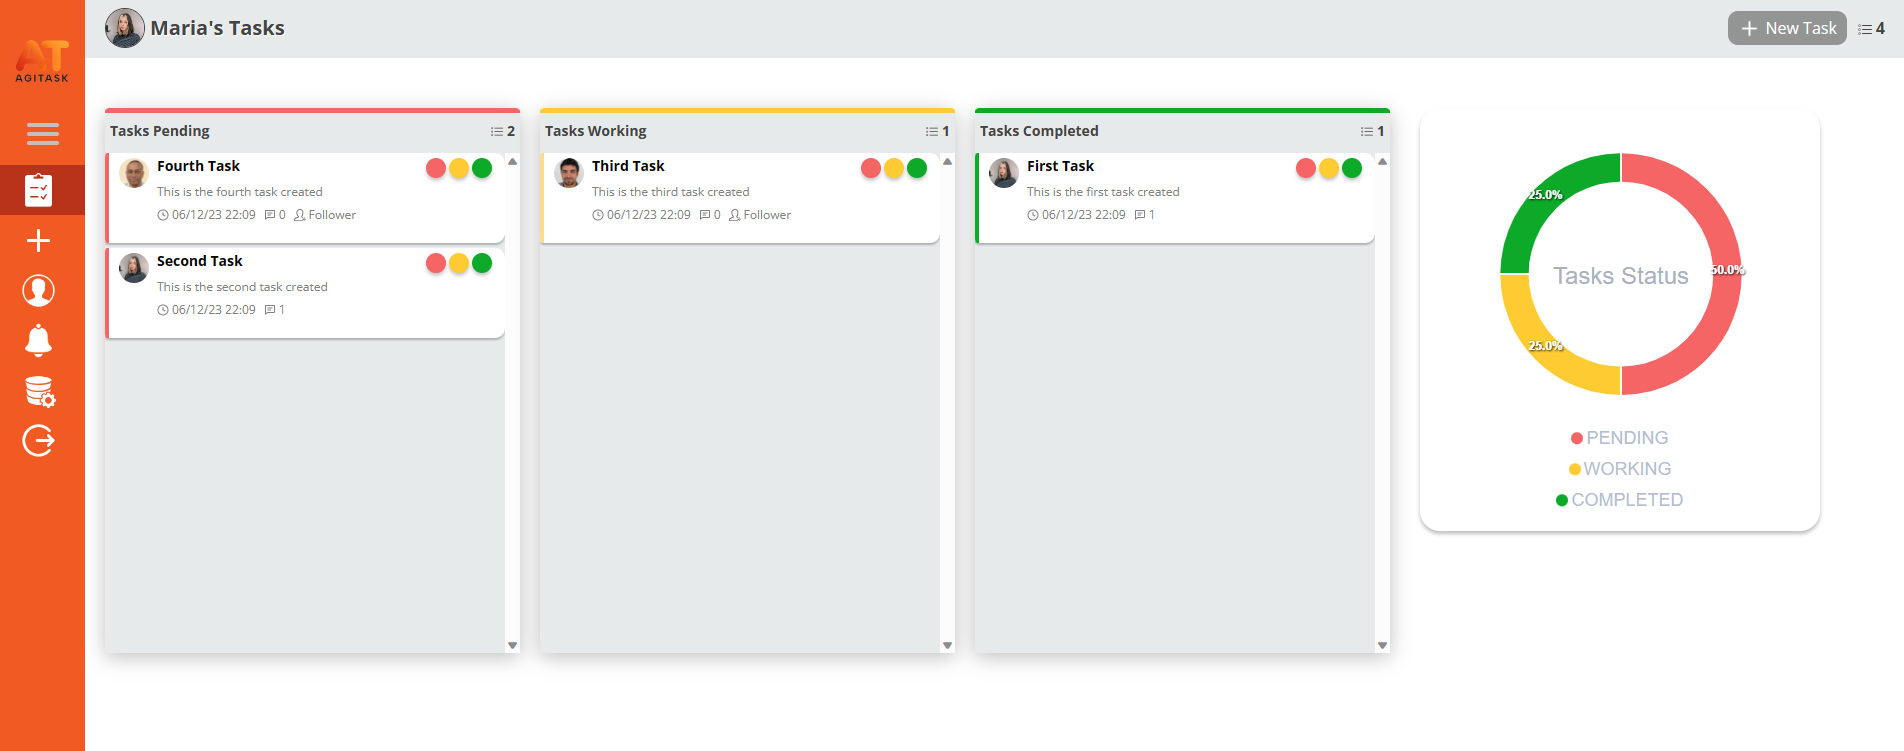
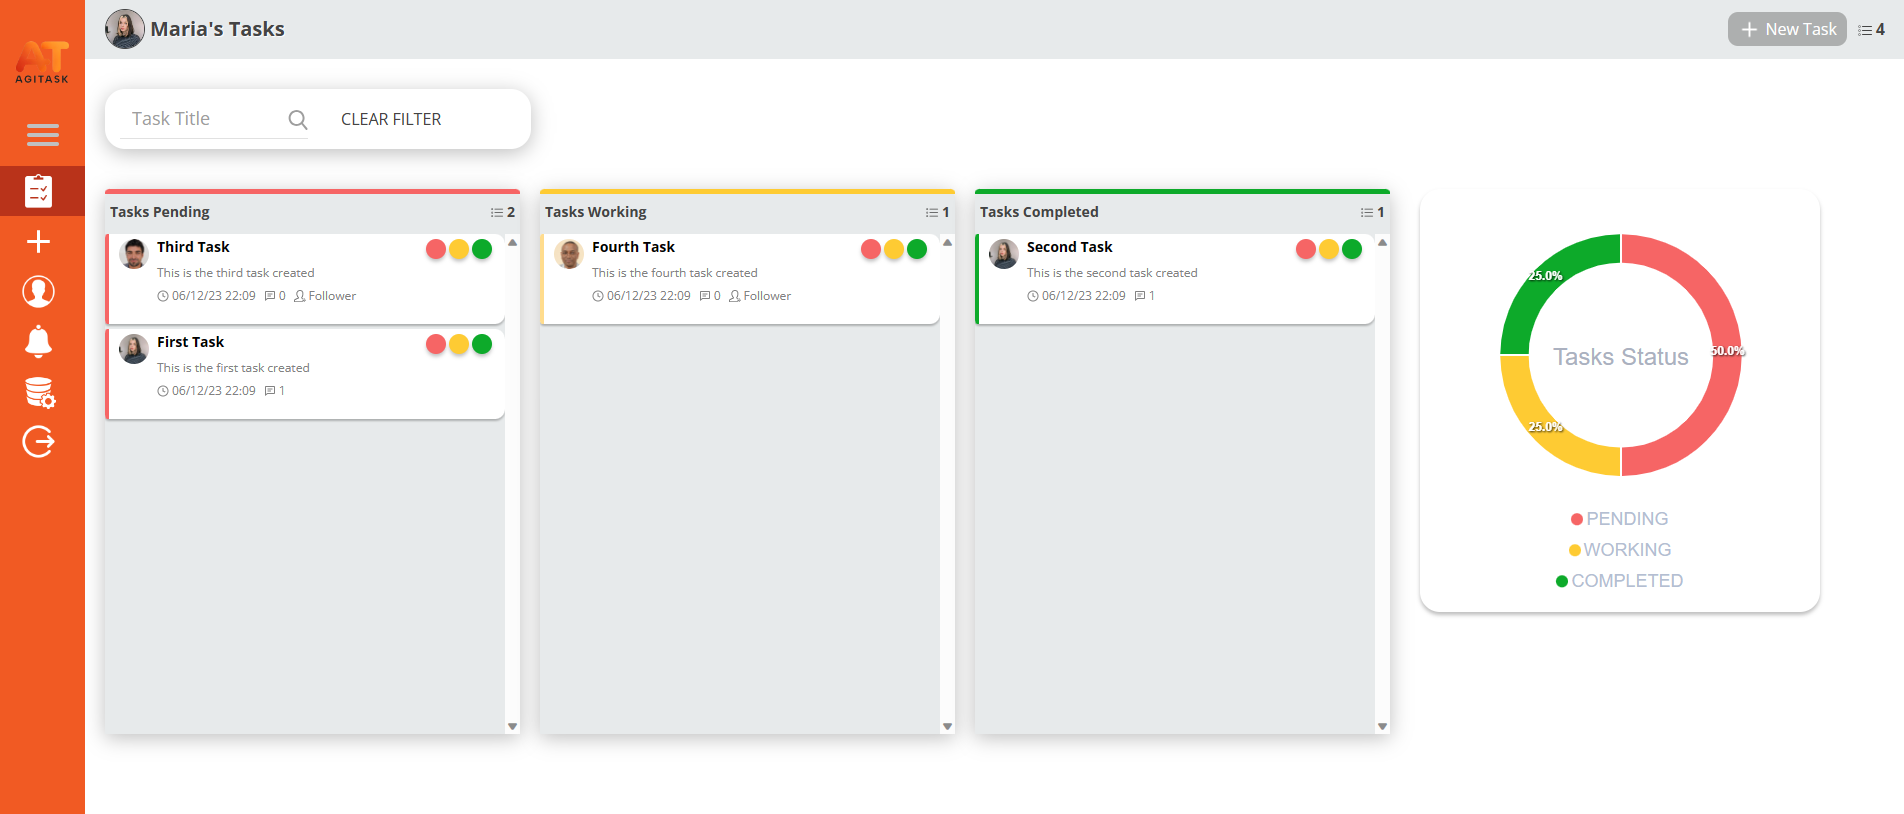
started the form to create new task

diff --git a/frontend/src/pages/CreateTask/index.tsx b/frontend/src/pages/CreateTask/index.tsx
@@ -1,0 +1,179 @@
+import { Task, User } from 'types';
+import { Controller, useForm } from 'react-hook-form';
+import { useHistory } from 'react-router-dom';
+import { AxiosRequestConfig } from 'axios';
+import { requestBackend } from 'util/requests';
+import { useCallback, useEffect, useState } from 'react';
+import { getTokenData, isAuthenticated } from 'util/auth';
+import Select from 'react-select';
+import './styles.css';
+
+const CreateTask = () => {
+  const { register, handleSubmit, formState: { errors }, setValue, control } = useForm<Task>();
+  const history = useHistory();
+
+  const [user, setUser] = useState<User | null>(null);
+
+  const getUser = useCallback(async () => {
+    try {
+      const email = getTokenData()?.user_name;
+
+      if (email) {
+        const params: AxiosRequestConfig = {
+            method: 'GET',
+            url: `/users/email/${email}`,
+            withCredentials: true,
+        };
+          
+        const response = await requestBackend(params);  
+        setUser(response.data);
+      }
+    } catch (error) {
+      console.log("Error: " + error);
+    }
+  }, []);
+
+  useEffect(() => {
+    getUser();
+  }, [getUser]);
+
+  const onSubmit = async (formData: Task) => {
+    if (user) {
+      formData.status = "PENDING";
+      formData.startDate = new Date().toISOString();
+      formData.creatorId = user.id;
+
+      console.log(formData);
+
+      try {
+        const params: AxiosRequestConfig = {
+          method: "POST",
+          url: "/tasks",
+          data: formData,
+          withCredentials: true
+        };
+
+        await requestBackend(params);
+        history.push("/tasks");
+      } catch (error) {
+        console.log("Error: " + error);
+      }
+    }
+  };
+
+  const handleCancel = () => {
+    history.push("/tasks");
+  };
+
+  const [selectFollowers, setSelectFollowers] = useState<User[]>();
+
+  const followersIds = selectFollowers?.map(follower => follower.id);
+  const followersNames = selectFollowers?.map(follower => follower.name);
+
+  useEffect(() => {
+      requestBackend({url: '/users', withCredentials: true})
+          .then(response => {
+            setSelectFollowers(response.data.content)
+      })
+  }, []);
+
+
+  return (
+    <div className="create-task-container">
+      <h1>Create</h1>
+      <form onSubmit={handleSubmit(onSubmit)}>
+      <div className="base-card post-card-form-card">
+
+                <form onSubmit={handleSubmit(onSubmit)}>
+                    <div className='row post-crud-inputs-container'>
+                        <div className='post-crud-inputs-left-container'>
+
+                            <div className='margin-bottom-30'>
+                                <label htmlFor="">Title</label>
+                                <input 
+                                    {...register("title", {
+                                    required: 'Campo obrigatório',
+                                    })}
+                                    type="text"
+                                    className={`form-control base-input ${errors.title ? 'is-invalid' : ''}`}
+                                    placeholder="Title"
+                                    name="title"
+                                />
+                                <div className='invalid-feedback d-block'>{errors.title?.message}</div>
+                            </div>
+
+                        </div>
+
+                        <div className='post-crud-inputs-left-container'>
+
+                        <div className='margin-bottom-30'>
+                            <label htmlFor="">Description</label>
+                            <input 
+                                {...register("description", {
+                                required: 'Campo obrigatório',
+                                })}
+                                type="text"
+                                className={`form-control base-input ${errors.description ? 'is-invalid' : ''}`}
+                                placeholder="Description"
+                                name="description"
+                            />
+                            <div className='invalid-feedback d-block'>{errors.description?.message}</div>
+                        </div>
+
+                        </div>
+                        
+                        {followersNames && followersIds && 
+                        <div className='margin-bottom-30'>
+                            <label htmlFor="" style={{color:"white"}}>Followers</label> 
+                            <Controller
+  name="followersId"
+  rules={{ required: 'Campo obrigatório' }}
+  control={control}
+  render={({ field }) => (
+<Select
+  {...field}
+  options={(followersIds || []).map((id, index) => ({
+    value: id,
+    label: followersNames[index],
+    key: id // Adicione uma chave única com base no ID ou outro identificador exclusivo
+  }))}
+  classNamePrefix="users-crud-select"
+  placeholder="Followers"
+  isMulti
+  getOptionLabel={(follower: { value: number; label: string }) => follower.label}
+  getOptionValue={(follower: { value: number; label: string }) => follower.value.toString()}
+  value={field.value ? field.value.map((id: number) => ({ value: id, label: '', key: id })) : []}
+/>
+
+  )}
+/>
+
+
+
+
+                                {errors.followersId && (
+                                    <div className='invalid-feedback d-block'>Campo obrigatório</div>
+                                )}
+                        </div>
+                        }
+
+                        <div className='post-crud-buttons-container'>
+                            <button 
+                                className='btn btn-outline-danger post-crud-buttons'
+                                onClick={handleCancel}
+                                >
+                                CANCEL
+                            </button>
+
+                            <button className='btn btn-primary text-white post-crud-buttons' onClick={() => onSubmit}>SAVE</button>
+                        </div>
+                    </div>
+                </form>
+            
+            </div>
+      </form>
+    </div>
+  );
+};
+
+export default CreateTask;

diff --git a/frontend/src/Routes.tsx b/frontend/src/Routes.tsx
@@ -3,6 +3,7 @@ import Footer from "Components/Footer";
 import Navbar from "Components/Navbar";
 import Admin from "pages/Admin";
 import Auth from "pages/Auth";
+import CreateTask from "pages/CreateTask";
 import Home from "pages/Home";
 import Tasks from "pages/Tasks";
 
@@ -39,9 +40,15 @@ const Routes = () => {
                     </Route>
 
                     {isAuthenticated() && (
+                        <>
                         <Route path="/tasks" exact>
                             <Tasks/>
                         </Route>
+
+                        <Route path="/create" exact>
+                            <CreateTask/>
+                        </Route>
+                        </>
                     )}
 
                 </Switch>

diff --git a/frontend/src/Components/TaskFilter/index.tsx b/frontend/src/Components/TaskFilter/index.tsx
@@ -30,7 +30,7 @@ const TaskFilter = ( {onSubmitFilter} : Props ) => {
                         {...register("title")}
                         type="text"
                         className={`form-control text-dark`}
-                        placeholder="Task title"
+                        placeholder="Task Title"
                         name="title"
                     />
                     <button className='user-filter-button-search-icon'>

diff --git a/frontend/src/pages/CreateTask/styles.css b/frontend/src/pages/CreateTask/styles.css
@@ -1,0 +1,5 @@
+.create-task-container{
+    margin-left: 85px;
+    padding: 20px;
+    width: 100%;
+}
